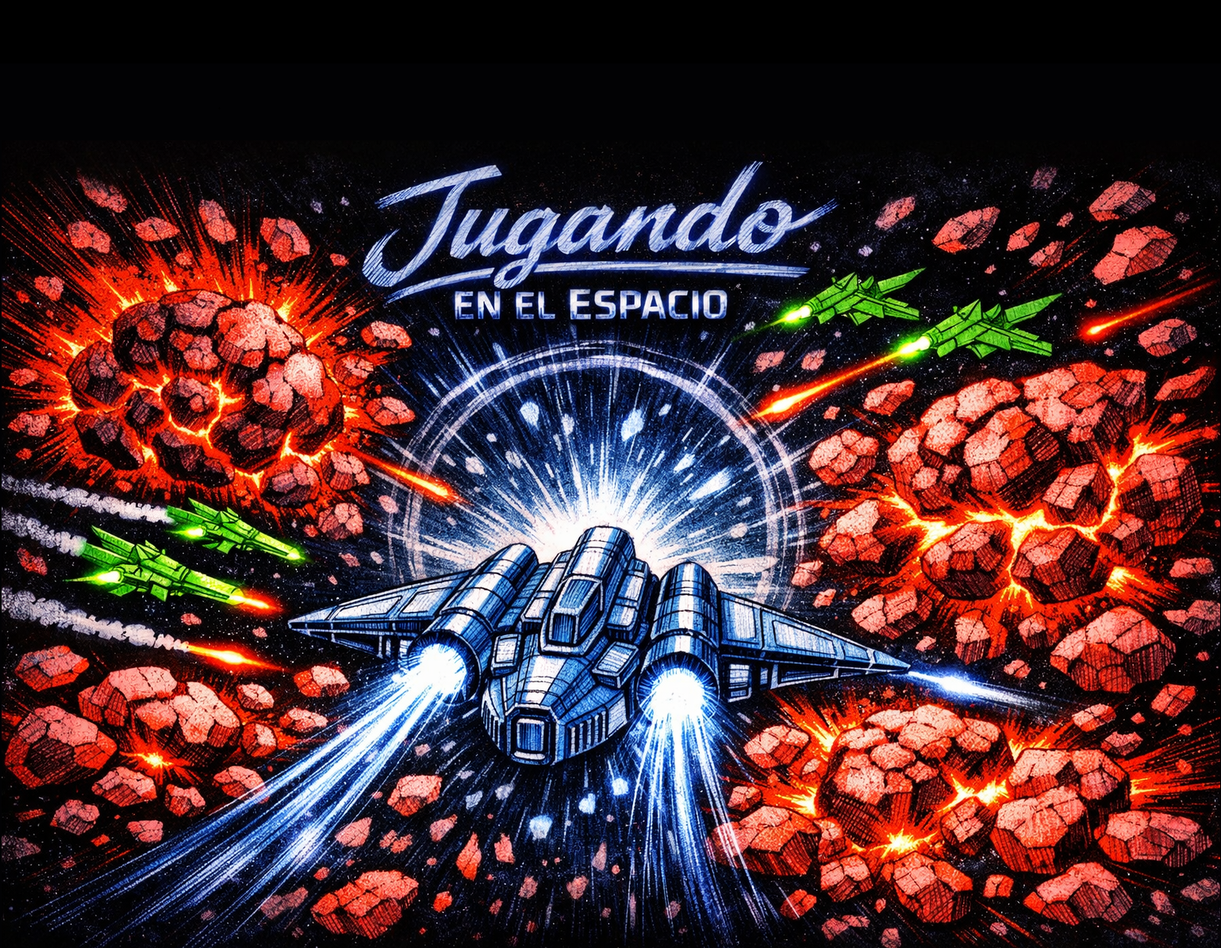
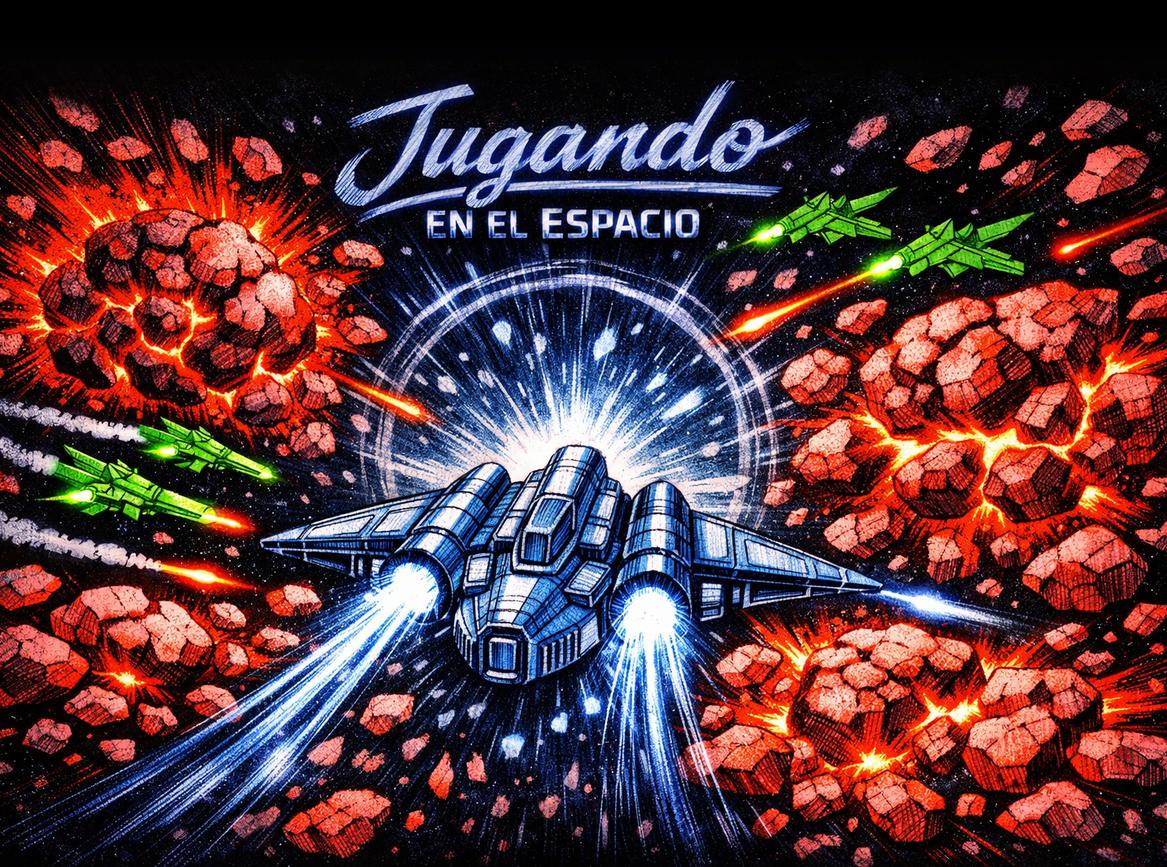
feat(tutorial): refresco visual con iconos + contenido corregido (v1.30.0)
- Controles: badges de teclas + iconos reales; fix Q=Cohetes (decia aceleracion)
- Mejoras: 8 habilidades con icono y efecto; se quito la vieja 'velocidad' y se
  agregaron Aceleracion/Propulsor/Devorador/Cohetes
- Sobrecalentamiento: 25s -> 10s
- Se quito el titulo redundante del paso (se cortaba en el marco)

diff --git a/src/ui/UIManager.js b/src/ui/UIManager.js
@@ -751,19 +751,57 @@ export class UIManager {
             z-index: 600;
         `;
         
+        // Estilos y filas reutilizables (con los íconos reales de las habilidades)
+        const KEY = "display:inline-block;min-width:30px;text-align:center;padding:3px 9px;border:2px solid #0044CC;border-radius:6px;font-weight:bold;font-family:Arial,sans-serif;background:rgba(0,68,204,0.10);";
+        const ICON = "width:24px;height:24px;object-fit:contain;vertical-align:middle;margin-right:7px;";
+
+        // Filas de controles: [tecla] + (icono opcional) + descripción
+        const filasControles = [
+            ['W', null, 'Avanzar / Acelerar'],
+            ['A / D', null, 'Rotar la nave'],
+            ['ESPACIO', null, 'Disparar'],
+            ['Q', 'assets/cohetes.png', 'Cohetes teledirigidos'],
+            ['E', 'assets/deborador.png', 'Devorador (atrae partículas)'],
+            ['R', 'assets/propulsor.png', 'Propulsor (dash)'],
+            ['P', null, 'Pausa / Abrir MEJORAS'],
+            ['T', null, 'Ver Top 5 (en pausa)'],
+            ['ESC', null, 'Volver al menú'],
+        ].map(([k, ic, d]) =>
+            `<span style="${KEY}">${k}</span>` +
+            `<span style="text-align:left;">${ic ? `<img src="${ic}" style="${ICON}">` : ''}${d}</span>`
+        ).join('');
+
+        // Filas de mejoras: [icono] nombre — efecto (las 8 habilidades)
+        const filasMejoras = [
+            ['assets/proyectil1.png', 'Daño', '+ daño por disparo'],
+            ['assets/escudo1.png', 'Escudo', '+50 HP máx c/u'],
+            ['assets/ultiicon1.png', 'Ulti', '− coste de carga'],
+            ['assets/tiempo fuera.png', 'Tiempo Fuera', '+ regeneración'],
+            ['assets/aceleracion.png', 'Aceleración', '+ tiempo de acel.'],
+            ['assets/propulsor.png', 'Propulsor', '− cooldown (−2s c/u)'],
+            ['assets/deborador.png', 'Devorador', '+ rango/velocidad'],
+            ['assets/cohetes.png', 'Cohetes', '+1 cohete c/u'],
+        ].map(([ic, n, e]) =>
+            `<div style="display:flex;align-items:center;gap:8px;text-align:left;">` +
+            `<img src="${ic}" style="width:28px;height:28px;object-fit:contain;flex:0 0 auto;">` +
+            `<span><strong>${n}</strong> — ${e}</span></div>`
+        ).join('');
+
         // Contenido de cada paso del tutorial
         const pasos = [
             // Paso 1: Objetivo
             {
                 titulo: 'TUTORIAL - OBJETIVO',
                 contenido: `
-                    <div style="color: #0044CC; font-family: 'Segoe Script', cursive; font-size: 32px; font-weight: bold; margin-bottom: 20px; text-align: center;">OBJETIVO DEL JUEGO</div>
-                    <div style="color: #0044CC; font-family: 'Arial', sans-serif; font-size: 20px; text-align: center; line-height: 1.5;">
-                        Tu misión es <strong>destruir asteroides</strong> para obtener partículas BOIDS.<br><br>
-                        Usa esas partículas para <strong>mejorar tu nave</strong> y sobrevivir<br>
-                        tantas oleadas como puedas.<br><br>
-                        Cada vez que tu puntuación sube, aparecen más asteroides.<br>
-                        ¡Sobrevive el mayor tiempo posible!
+                    <div style="color:#0044CC;font-family:'Segoe Script',cursive;font-size:30px;font-weight:bold;margin-bottom:14px;text-align:center;">OBJETIVO DEL JUEGO</div>
+                    <div style="display:flex;justify-content:center;align-items:center;gap:22px;margin-bottom:16px;">
+                        <img src="assets/asteroide250.png" style="width:68px;height:68px;object-fit:contain;">
+                        <img src="assets/Pboids2.png" style="width:64px;height:64px;object-fit:contain;">
+                        <img src="assets/Nave322.png" style="width:68px;height:68px;object-fit:contain;">
+                    </div>
+                    <div style="color:#0044CC;font-family:'Arial',sans-serif;font-size:18px;text-align:center;line-height:1.5;">
+                        Destruí <strong>asteroides</strong> para soltar <strong>partículas BOIDS</strong>, recolectalas y usalas para <strong>mejorar tu nave</strong>.<br><br>
+                        Cuanto más avanzás, más enemigos aparecen. ¡Sobreviví la mayor cantidad de oleadas posible!
                     </div>
                 `
             },
@@ -771,17 +809,9 @@ export class UIManager {
             {
                 titulo: 'TUTORIAL - CONTROLES',
                 contenido: `
-                    <div style="color: #0044CC; font-family: 'Segoe Script', cursive; font-size: 32px; font-weight: bold; margin-bottom: 20px; text-align: center;">CONTROLES</div>
-                    <div style="color: #0044CC; font-family: 'Arial', sans-serif; font-size: 18px; text-align: left; line-height: 1.6; max-width: 500px; margin: 0 auto;">
-                        <strong>W</strong> - Avanzar<br>
-                        <strong>A / D</strong> - Rotar izquierda/derecha<br>
-                        <strong>ESPACIO</strong> - Disparar<br>
-                        <strong>Q</strong> - Cohetes (aceleración)<br>
-                        <strong>E</strong> - Devorador (atrae partículas)<br>
-                        <strong>R</strong> - Propulsor (dash)<br>
-                        <strong>P</strong> - Pausar / Abrir MEJORAS<br>
-                        <strong>T</strong> - Ver Top 5 (en pausa)<br>
-                        <strong>ESC</strong> - Volver al menú principal
+                    <div style="color:#0044CC;font-family:'Segoe Script',cursive;font-size:30px;font-weight:bold;margin-bottom:18px;text-align:center;">CONTROLES</div>
+                    <div style="display:grid;grid-template-columns:auto 1fr;gap:9px 16px;align-items:center;color:#0044CC;font-family:'Arial',sans-serif;font-size:17px;max-width:430px;margin:0 auto;">
+                        ${filasControles}
                     </div>
                 `
             },
@@ -789,15 +819,10 @@ export class UIManager {
             {
                 titulo: 'TUTORIAL - MEJORAS',
                 contenido: `
-                    <div style="color: #0044CC; font-family: 'Segoe Script', cursive; font-size: 32px; font-weight: bold; margin-bottom: 20px; text-align: center;">SISTEMA DE MEJORAS</div>
-                    <div style="color: #0044CC; font-family: 'Arial', sans-serif; font-size: 16px; text-align: left; line-height: 1.5;">
-                        Presiona <strong>P</strong> para abrir el menú de mejoras.<br><br>
-                        <strong>AUMENTO DE DAÑO</strong>: +2, +3, +5, +5, +10<br>
-                        <strong>AUMENTO DE VELOCIDAD</strong>: +5%, +5%, +10%, +10%, +20%<br>
-                        <strong>COSTE DE ULTI</strong>: -50,-50,-50,-50,-50 (de 500 a 250)<br>
-                        <strong>AUMENTO DE ESCUDO</strong>: +50,+50,+50,+50,+50 HP<br>
-                        <strong>REGENERACIÓN</strong>: +5,+10,+15,+20,+30 tras Tiempo Fuera<br><br>
-                        <em style="color: #6688AA;">Paga con partículas del Devorador.</em>
+                    <div style="color:#0044CC;font-family:'Segoe Script',cursive;font-size:30px;font-weight:bold;margin-bottom:8px;text-align:center;">MEJORAS</div>
+                    <div style="color:#0044CC;font-family:'Arial',sans-serif;font-size:15px;text-align:center;margin-bottom:16px;">Abrí el panel con <strong>P</strong> y compralas con partículas. Cada habilidad tiene <strong>5 niveles</strong>.</div>
+                    <div style="display:grid;grid-template-columns:1fr 1fr;gap:12px 22px;color:#0044CC;font-family:'Arial',sans-serif;font-size:15px;max-width:520px;margin:0 auto;">
+                        ${filasMejoras}
                     </div>
                 `
             },
@@ -805,18 +830,14 @@ export class UIManager {
             {
                 titulo: 'TUTORIAL - PARTÍCULAS',
                 contenido: `
-                    <div style="color: #0044CC; font-family: 'Segoe Script', cursive; font-size: 32px; font-weight: bold; margin-bottom: 15px; text-align: center;">PARTÍCULAS BOIDS</div>
-                    <div style="text-align: center; margin-bottom: 15px;">
-                        <img src="assets/Pboids2.png" style="width: 80px; height: 80px; border: 2px solid #0044CC; border-radius: 10px;">
+                    <div style="color:#0044CC;font-family:'Segoe Script',cursive;font-size:30px;font-weight:bold;margin-bottom:12px;text-align:center;">PARTÍCULAS BOIDS</div>
+                    <div style="text-align:center;margin-bottom:14px;">
+                        <img src="assets/Pboids2.png" style="width:76px;height:76px;object-fit:contain;">
                     </div>
-                    <div style="color: #0044CC; font-family: 'Arial', sans-serif; font-size: 16px; text-align: left; line-height: 1.5;">
-                        Los <strong>asteroides especiales</strong> sueltan partículas BOIDS al destruirse.<br><br>
-                        <strong>¿Cómo recolectarlas?</strong><br>
-                        - Presiona <strong>E</strong> para activar el Devorador<br>
-                        - Las partículas serán atraídas hacia ti<br>
-                        - También puedes tocarlas con tu nave<br><br>
-                        Las partículas se usan en el menú de mejoras (tecla P).<br><br>
-                        <em style="color: #6688AA;">¡Recolecta sabiamente!</em>
+                    <div style="color:#0044CC;font-family:'Arial',sans-serif;font-size:17px;text-align:center;line-height:1.5;">
+                        Al destruir enemigos aparecen <strong>partículas BOIDS</strong>.<br>
+                        Activá el <strong>Devorador (E)</strong> para atraerlas, o tocálas con la nave.<br><br>
+                        Son la <strong>moneda</strong> para comprar mejoras (panel con <strong>P</strong>).
                     </div>
                 `
             },
@@ -824,18 +845,10 @@ export class UIManager {
             {
                 titulo: 'TUTORIAL - SOBRECALENTAMIENTO',
                 contenido: `
-                    <div style="color: #FF0000; font-family: 'Segoe Script', cursive; font-size: 32px; font-weight: bold; margin-bottom: 20px; text-align: center;">SOBRECALENTAMIENTO</div>
-                    <div style="color: #0044CC; font-family: 'Arial', sans-serif; font-size: 16px; text-align: left; line-height: 1.5;">
-                        Si tus escudos llegan a <strong>0</strong>, entras en modo<br>
-                        <strong>SOBRECALENTAMIENTO</strong>.<br><br>
-                        Durante <strong>25 segundos</strong>:<br>
-                        - Eres vulnerable<br>
-                        - No puedes usar el propulsor (R)<br>
-                        - Solo puedes moverte y disparar<br><br>
-                        Al terminar, regeneras <strong>10 escudos</strong>.<br>
-                        Las mejoras de ESCUDO (+50 HP cada una) aumentan<br>
-                        tu vida máxima para que puedas resistir más.<br><br>
-                        <em style="color: #6688AA;">¡Mantén tus escudos altos!</em>
+                    <div style="color:#CC0000;font-family:'Segoe Script',cursive;font-size:30px;font-weight:bold;margin-bottom:16px;text-align:center;">SOBRECALENTAMIENTO</div>
+                    <div style="color:#0044CC;font-family:'Arial',sans-serif;font-size:17px;text-align:center;line-height:1.55;">
+                        Si tus escudos llegan a <strong>0</strong> entrás en <strong style="color:#CC0000;">sobrecalentamiento</strong> por <strong>10 segundos</strong>: quedás vulnerable (sin escudos).<br><br>
+                        Al terminar recuperás algo de escudos. Las mejoras de <strong>Escudo</strong> (+50 HP c/u) suben tu vida máxima para aguantar más.
                     </div>
                 `
             }
@@ -849,19 +862,9 @@ export class UIManager {
             container.innerHTML = '';
             
             const paso = pasos[indice];
-            
-            // Título del paso
-            const titulo = document.createElement('div');
-            titulo.innerHTML = paso.titulo;
-            titulo.style.cssText = `
-                color: #0044CC;
-                font-family: 'Segoe Script', cursive;
-                font-size: 26px;
-                font-weight: bold;
-                margin-bottom: 15px;
-            `;
-            container.appendChild(titulo);
-            
+
+            // (El título va dentro de cada `contenido`, no se repite acá.)
+
             // Contenido
             const contenido = document.createElement('div');
             contenido.innerHTML = paso.contenido;

diff --git a/documentacion/PENDIENTES.md b/documentacion/PENDIENTES.md
@@ -1,7 +1,21 @@
 # Pendientes - Jugando en el Espacio
 
 **Última actualización:** 13/07/2026  
-**Versión:** v1.29.0 (ACTUAL)
+**Versión:** v1.30.0 (ACTUAL)
+
+---
+
+## ✅ Completado v1.30.0 - Tutorial refrescado con íconos + contenido corregido
+
+Enfoque "A" (refresco visual del modal de 5 pasos, `UIManager.mostrarTutorial`):
+
+- **Contenido corregido** (estaba desactualizado tras los cambios de mejoras):
+  - **Controles**: se corrigió "Q - Cohetes (aceleración)" → "Q — Cohetes teledirigidos" (aceleración es W). Cada tecla se muestra como badge y las habilidades (Q/E/R) llevan su ícono real.
+  - **Mejoras**: se quitó la vieja "AUMENTO DE VELOCIDAD" y se listan las **8 habilidades** en una grilla de 2 columnas, cada una con su ícono (`proyectil1`, `escudo1`, `ultiicon1`, `tiempo fuera`, `aceleracion`, `propulsor`, `deborador`, `cohetes`) y su efecto.
+  - **Sobrecalentamiento**: "25 segundos" → "10 segundos" (según `CONFIG.ESCUDOS.DURACION_SOBRECALENTAMIENTO`).
+  - **Objetivo/Partículas**: reescritos más cortos + íconos (asteroide, Pboids, nave).
+- Se quitó el título redundante del paso (`paso.titulo`): cada `contenido` ya trae su propio título, y el doble título se cortaba arriba en el marco fijo.
+- Verificado en runtime: los íconos cargan en cada paso; Controles y Mejoras entran sin cortarse; sin errores de consola.
 
 ---
 

diff --git a/README.md b/README.md
@@ -1,7 +1,7 @@
 # 🎮 Jugando en el Espacio
 
 [![GitHub Pages](https://img.shields.io/badge/Jugar-Aquí-0044CC?style=for-the-badge)](https://wackxion.github.io/proyecto-de-PVJ1-Jugando-en-el-Espacio-/)
-[![Versión](https://img.shields.io/badge/Versión-v1.29.0-FFA500?style=for-the-badge)](https://github.com/wackxion/proyecto-de-PVJ1-Jugando-en-el-Espacio-/releases/tag/v1.29.0)
+[![Versión](https://img.shields.io/badge/Versión-v1.30.0-FFA500?style=for-the-badge)](https://github.com/wackxion/proyecto-de-PVJ1-Jugando-en-el-Espacio-/releases/tag/v1.30.0)
 
 ---
 
@@ -361,7 +361,14 @@ main.js
 
 ## 📜 Historial de Versiones
 
-### v1.29.0 (Actual)
+### v1.30.0 (Actual)
+> **Tutorial actualizado con íconos + contenido corregido**
+
+- 🎮 Controles con badges de teclas + íconos reales de cada habilidad (fix: "Q → Cohetes", antes decía "aceleración")
+- ⬆ Paso de Mejoras rehecho: las 8 habilidades con su ícono y efecto (se quitó la vieja "velocidad"; se agregaron Aceleración, Propulsor, Devorador, Cohetes)
+- 🔧 Sobrecalentamiento: 10 s (antes decía 25)
+
+### v1.29.0
 > **Créditos: sección Diseño Artístico + precio de mejora "MAX" al maximizar**
 
 - 🎨 Créditos: nueva sección "Diseño Artístico" (Braian Zapater, Copilot, Chat GPT); se compactó el texto para que entre bien en el marco
